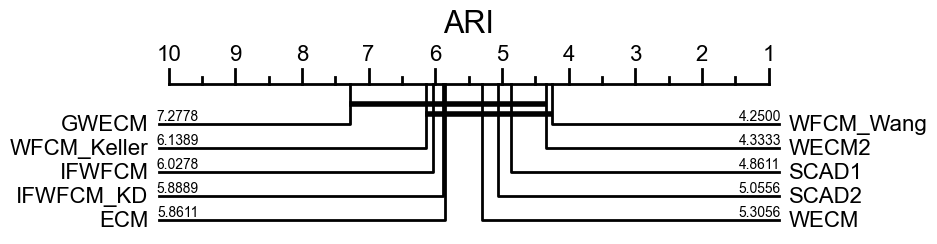
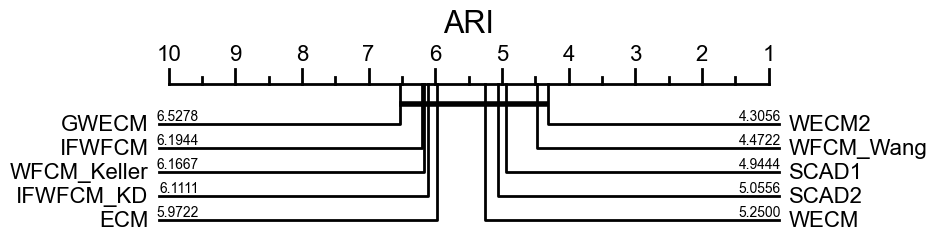
Update code

diff --git a/src/evclust/critical_diagram/main.py b/src/evclust/critical_diagram/main.py
@@ -382,4 +382,4 @@ def wilcoxon_holm(alpha=0.05, df_perf=None):
 # df_perf = pd.read_csv('example.csv', index_col=False)
 df_perf = pd.read_csv('expr_results.csv', index_col=False)
 
-draw_cd_diagram(df_perf=df_perf, title='ARI', labels=True, alpha=0.08)
+draw_cd_diagram(df_perf=df_perf, title='ARI', labels=True, alpha=0.25)
